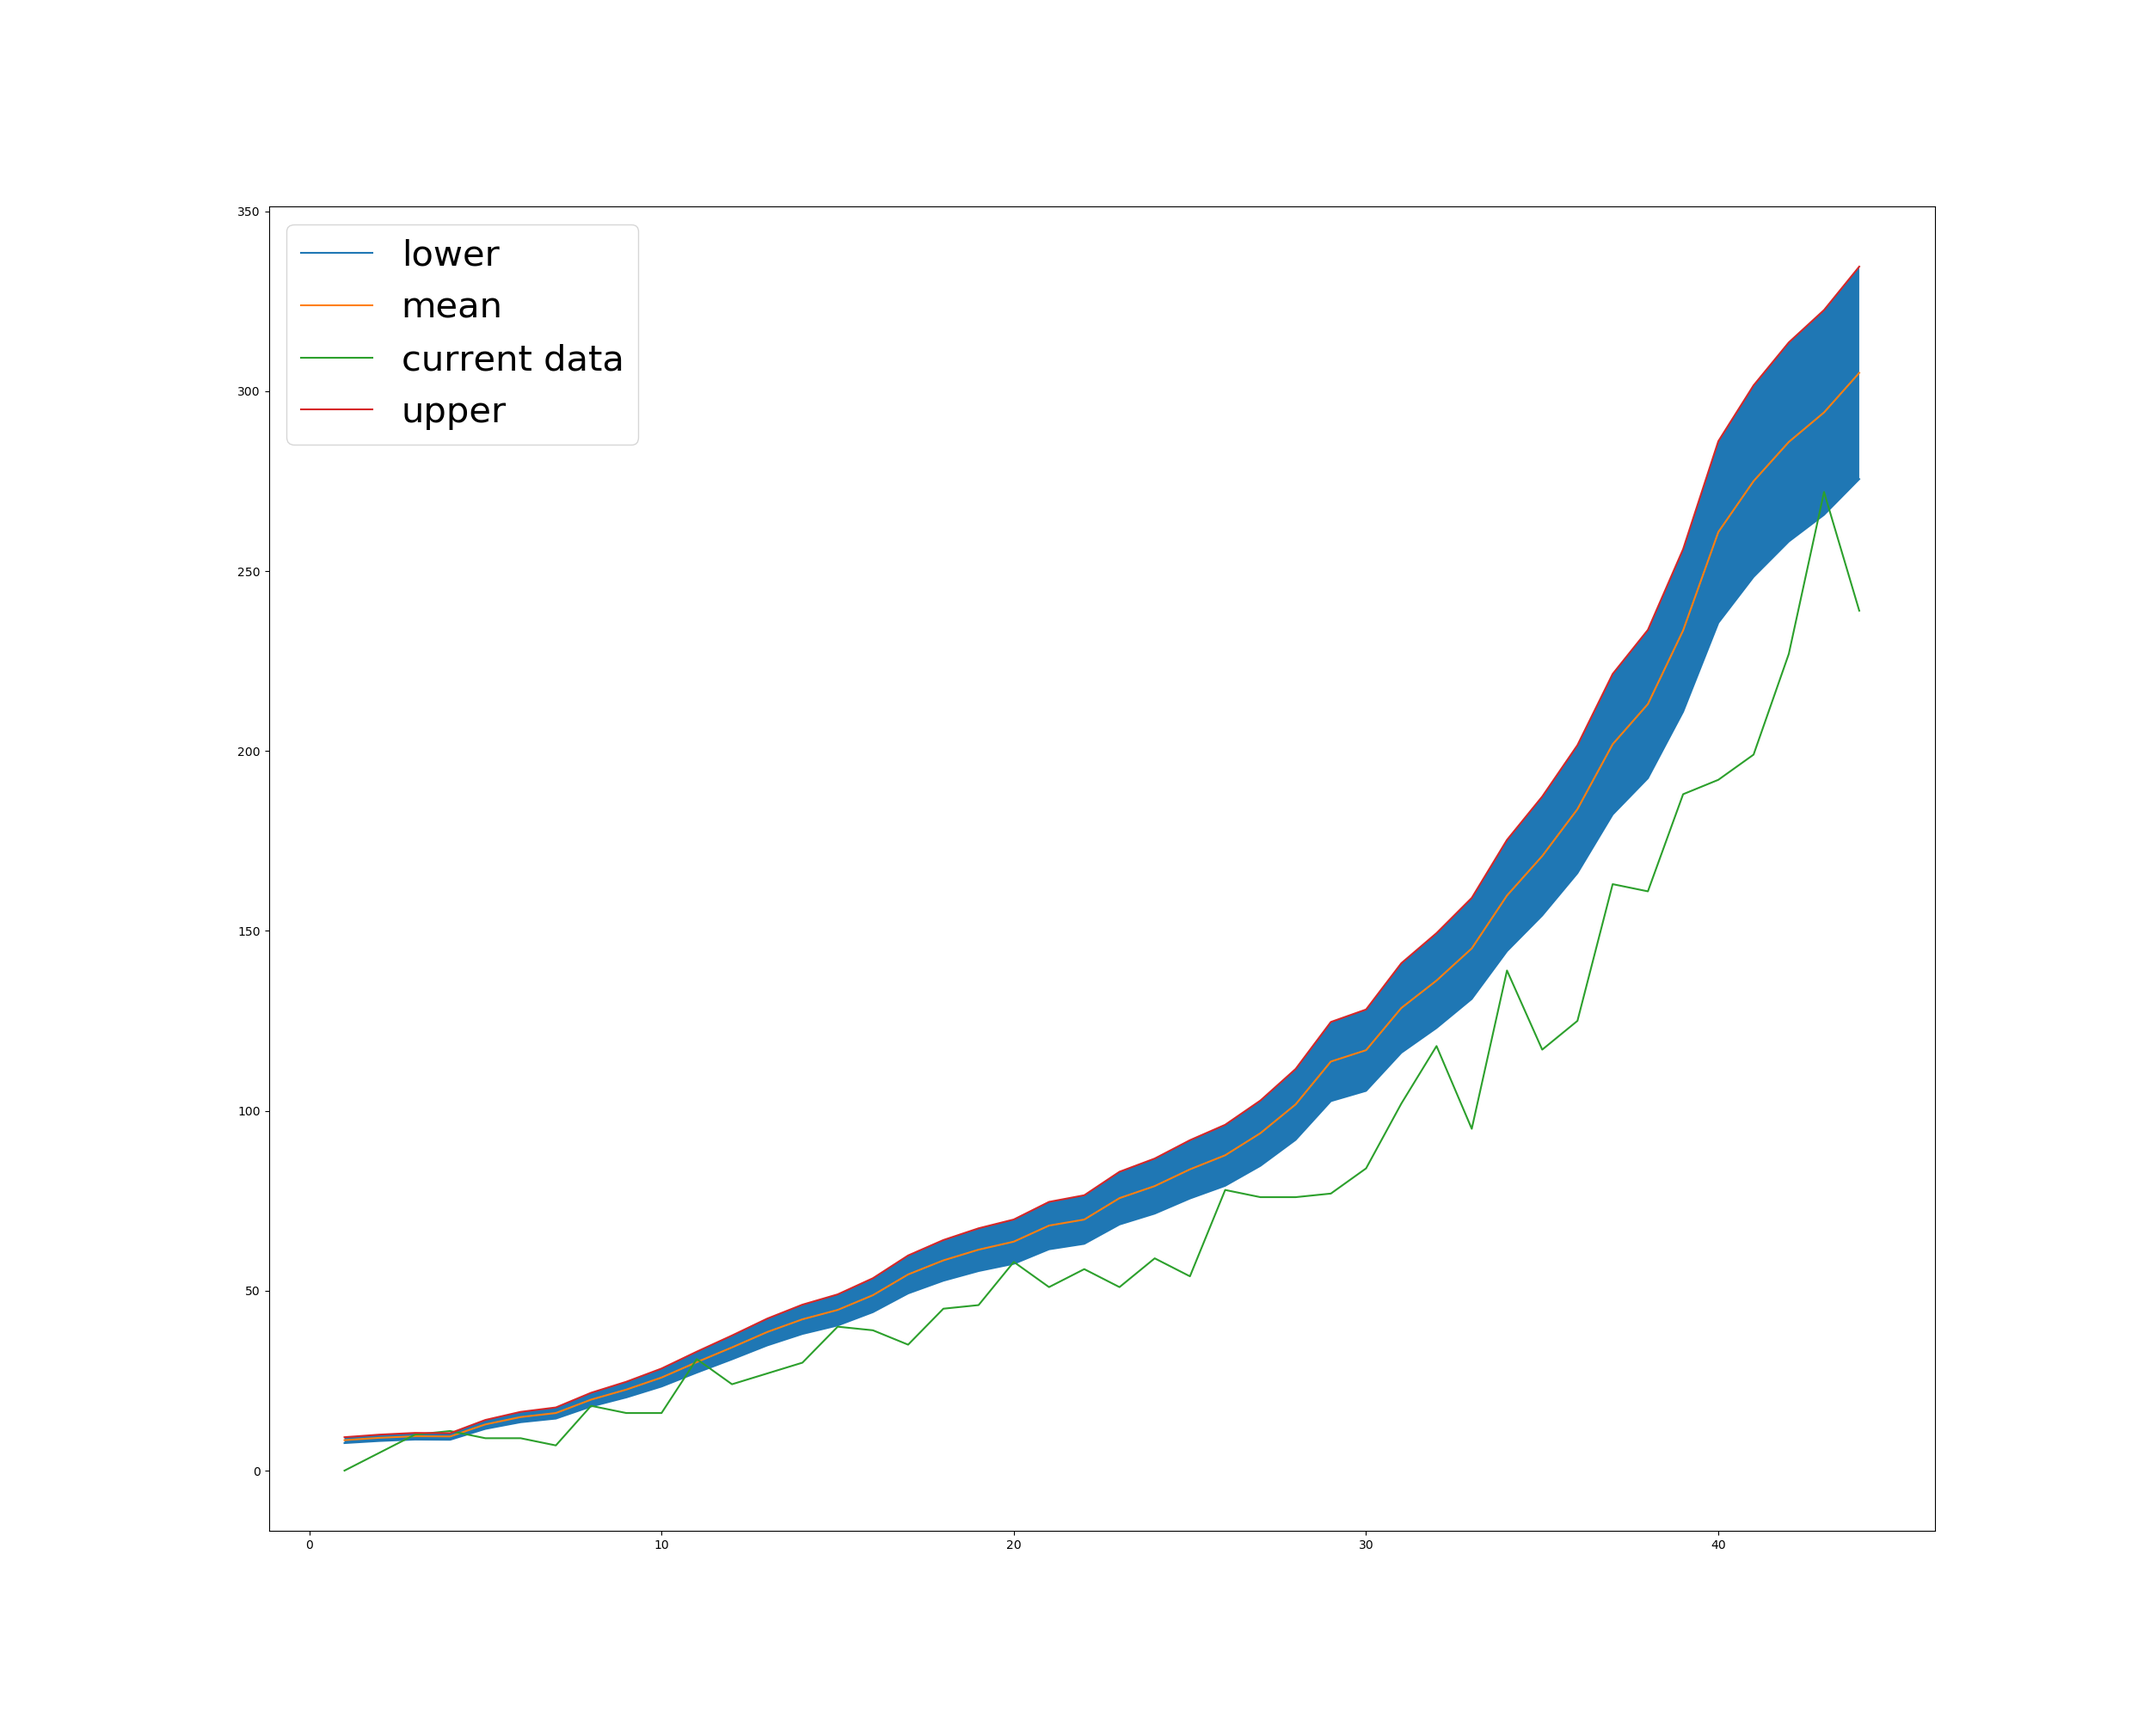
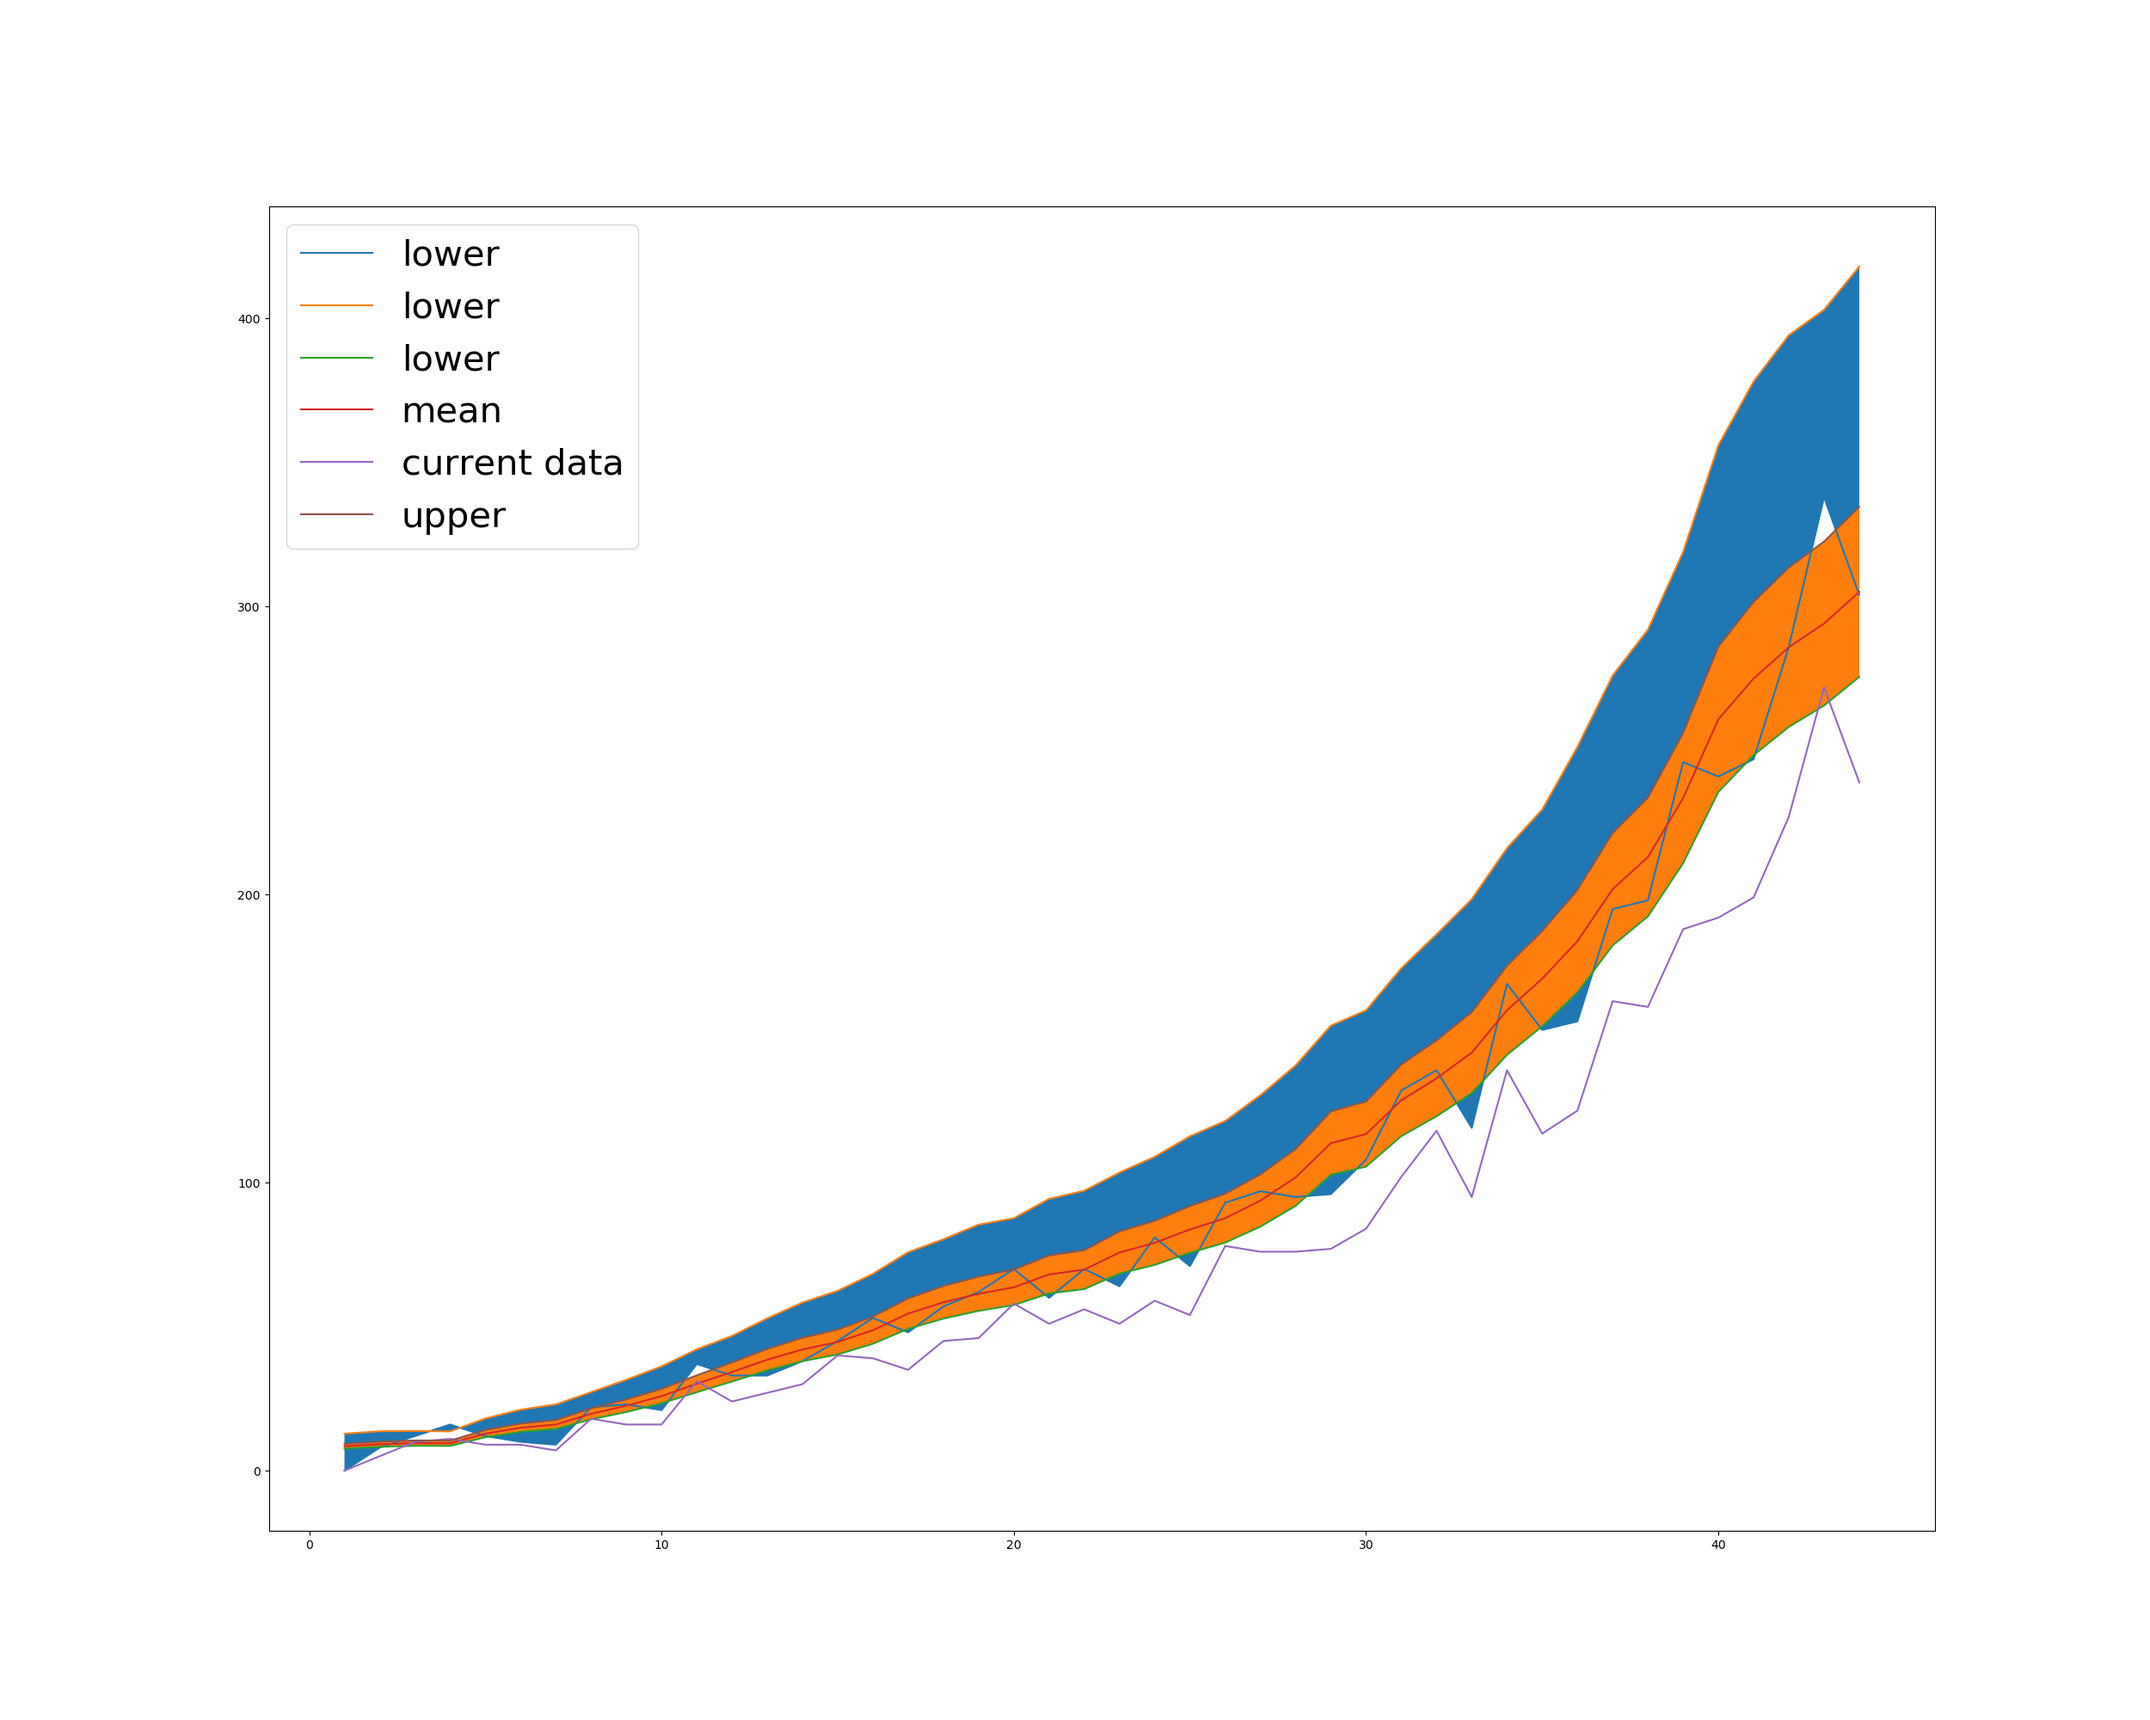
update

Changed region(s): [[0.156, 0.279, 0.8736, 0.868], [0.1872, 0.155, 0.2808, 0.31], [0.8112, 0.186, 0.8424, 0.217]]

diff --git a/Python/bayesian_law/plot.py b/Python/bayesian_law/plot.py
@@ -102,6 +102,9 @@ def plot_current_data(self):
     fig = plt.figure(figsize=(25,20))
 
     ax = plt.subplot()
+    ax.plot(self.dataframe['day'], self.dataframe['num_sym_lower'], label='lower')
+    ax.plot(self.dataframe['day'], self.dataframe['num_sym_upper'], label='lower')
+    ax.fill_between(self.dataframe['day'], self.dataframe['num_sym_lower'], self.dataframe['num_sym_upper'])
     ax.plot(self.dataframe['day'], self.dataframe['num_positive_lower'], label='lower')
     ax.plot(self.dataframe['day'], self.dataframe['num_positive_mean'], label='mean')
     ax.plot(self.dataframe['day'], self.dataframe['num_positive'], label='current data')

diff --git a/Python/bayesian_law/uncertainty.py b/Python/bayesian_law/uncertainty.py
@@ -36,9 +36,11 @@ def add_uncertainty(self, df):
     num_critical = np_df[:,5]
     num_fatalities = np_df[:,6]
 
-    num_sym_lower = np_df[:,2] # nb of tested 
-    # num_sym_upper = np_df[:,2]+(np_df[:,2]*self.ran)
-    num_sym_upper = np_df[:,2]+np_df[:,2]
+    num_sym_lower = np_df[:,2] # nb of tested
+    # num_sym_lower = own_NRMAS(num_sym_lower,self.window)
+    num_sym_upper = np_df[:,2]+(np_df[:,2]*self.ran)
+    num_sym_upper = own_NRMAS(num_sym_upper,self.window)
+    # num_sym_upper = np_df[:,2]+np_df[:,2]
 
 
 
